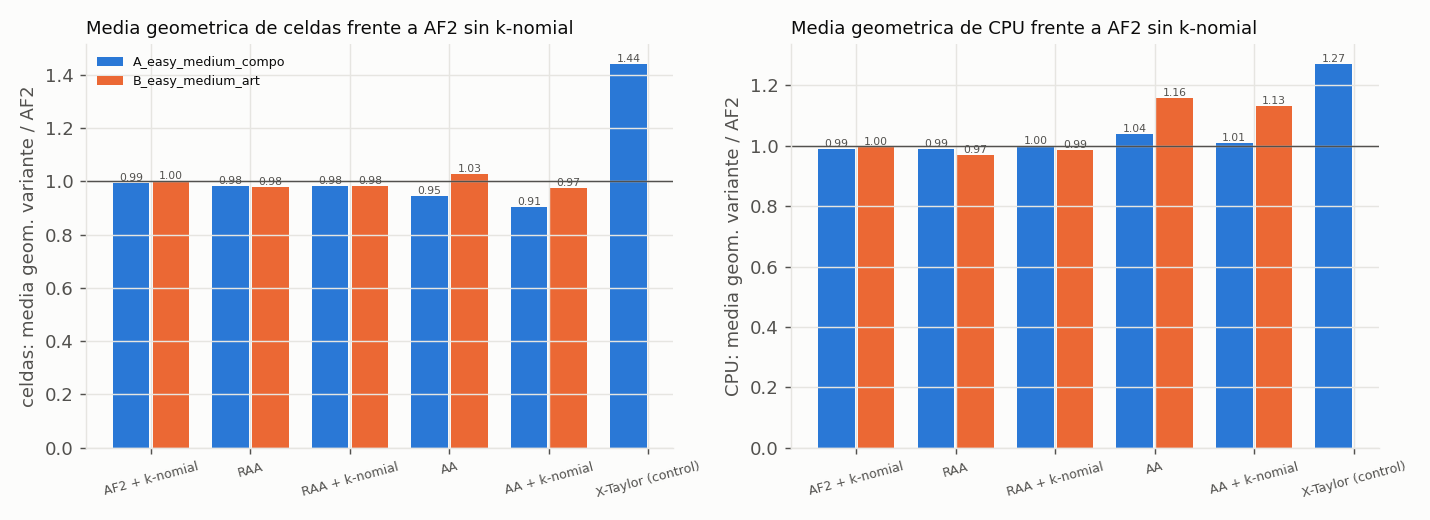
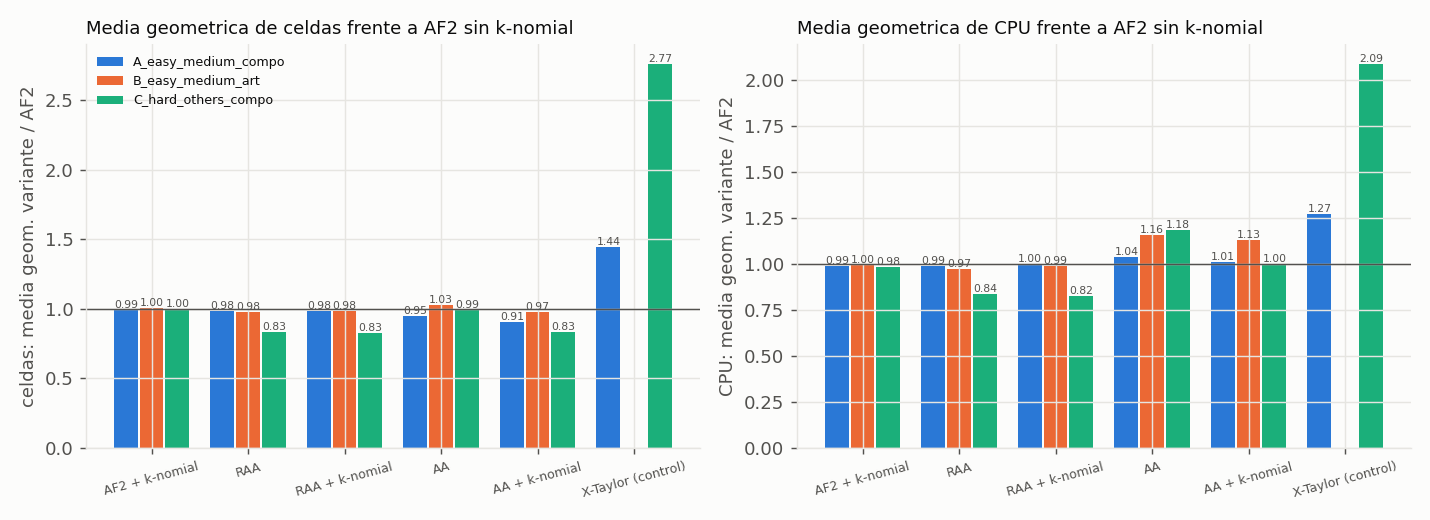
Fase 3 nivel 2, etapa C (hard+others, compo): resultados, analisis, consolidacion y conclusiones

diff --git a/raak/results/fase3-20260921/C_hard_others_compo/analisis/nivel2_tabla.md b/raak/results/fase3-20260921/C_hard_others_compo/analisis/nivel2_tabla.md
@@ -1,0 +1,60 @@
+# Fase 3, nivel 2 — barrido del solver
+
+Fuente: `runs.csv`: 105 corridas, 15 instancias, limite 1800 s de CPU.
+
+## Relajacion `compo`
+
+### Estados
+
+| variante | NO_FEASIBLE_FOUND | SUCCESS | TIME_OUT | UNBOUNDED_OBJ | CPU total (h) |
+|---|---|---|---|---|---|
+| compo_aa_k0 | 1 | 8 | 4 | 2 | 2.33 |
+| compo_aa_k3 | 1 | 11 | 1 | 2 | 1.06 |
+| compo_af2_k0 | 1 | 11 | 1 | 2 | 0.98 |
+| compo_af2_k3 | 1 | 11 | 1 | 2 | 0.98 |
+| compo_raa_k0 | 1 | 11 | 1 | 2 | 0.97 |
+| compo_raa_k3 | 1 | 11 | 1 | 2 | 0.97 |
+| xn | 1 | 7 | 5 | 2 | 2.99 |
+
+### Frente a la base `compo_af2_k0` (instancias resueltas por ambas; gana = menos de 0.95x, pierde = mas de 1.05x)
+
+| variante | n | celdas: gana/empata/pierde | celdas media geom. | CPU: gana/empata/pierde | CPU media geom. | resuelve solo esta | resuelve solo la base |
+|---|---|---|---|---|---|---|---|
+| compo_aa_k0 | 8 | 2/2/4 | 0.992 | 1/3/4 | 1.183 | 0 | 3 |
+| compo_aa_k3 | 11 | 3/8/0 | 0.830 | 1/2/8 | 1.001 | 0 | 0 |
+| compo_af2_k3 | 11 | 0/11/0 | 0.997 | 1/10/0 | 0.984 | 0 | 0 |
+| compo_raa_k0 | 11 | 1/10/0 | 0.830 | 1/10/0 | 0.835 | 0 | 0 |
+| compo_raa_k3 | 11 | 1/10/0 | 0.828 | 2/9/0 | 0.824 | 0 | 0 |
+| xn | 7 | 0/0/7 | 2.766 | 2/0/5 | 2.089 | 0 | 4 |
+
+### Separacion de efectos
+
+| efecto | comparacion | n | celdas gana/empata/pierde | celdas media geom. | CPU media geom. |
+|---|---|---|---|---|---|
+| aritmetica | compo_raa_k0 / compo_af2_k0 | 11 | 1/10/0 | 0.830 | 0.835 |
+| aritmetica | compo_aa_k0 / compo_af2_k0 | 8 | 2/2/4 | 0.992 | 1.183 |
+| k-nomial | compo_af2_k3 / compo_af2_k0 | 11 | 0/11/0 | 0.997 | 0.984 |
+| k-nomial | compo_raa_k3 / compo_raa_k0 | 11 | 0/11/0 | 0.997 | 0.986 |
+| k-nomial | compo_aa_k3 / compo_aa_k0 | 8 | 4/3/1 | 0.779 | 0.807 |
+| total | compo_raa_k3 / compo_af2_k0 | 11 | 1/10/0 | 0.828 | 0.824 |
+| total | compo_aa_k3 / compo_af2_k0 | 11 | 3/8/0 | 0.830 | 1.001 |
+
+## Tabla consolidada por instancia (celdas / CPU s; `—` = no resuelta)
+
+| instancia | compo_aa_k0 | compo_aa_k3 | compo_af2_k0 | compo_af2_k3 | compo_raa_k0 | compo_raa_k3 | xn |
+|---|---|---|---|---|---|---|---|
+| hard/chem | TIME_OUT | 111720 / 485.7 | 111578 / 417.2 | 111578 / 424.8 | 111578 / 422.9 | 111578 / 419.0 | TIME_OUT |
+| hard/chem-1 | TIME_OUT | 111720 / 478.0 | 111578 / 418.7 | 111578 / 416.9 | 111578 / 423.1 | 111578 / 421.5 | TIME_OUT |
+| hard/chembis | TIME_OUT | 57974 / 223.8 | 57582 / 202.4 | 57582 / 202.2 | 57582 / 202.0 | 57582 / 204.3 | TIME_OUT |
+| hard/ex6_1_3 | 9544 / 56.5 | 5982 / 36.7 | 5736 / 32.6 | 5736 / 33.1 | 5736 / 32.9 | 5736 / 32.9 | 23158 / 103.5 |
+| hard/ex6_2_10 | 256732 / 781.5 | 139174 / 447.0 | 143026 / 280.9 | 139092 / 279.5 | 143026 / 281.0 | 139092 / 280.1 | 890118 / 1432.0 |
+| hard/ex8_5_1bis | 1452 / 4.9 | 1000 / 3.4 | 1006 / 3.1 | 1006 / 3.0 | 1006 / 3.0 | 1006 / 2.9 | 3564 / 7.7 |
+| hard/sambal | 49308 / 263.1 | 49308 / 260.7 | 54218 / 268.6 | 54218 / 269.2 | 54218 / 270.3 | 54218 / 274.2 | TIME_OUT |
+| others/dualc1 | 1820 / 56.5 | 980 / 34.2 | 1040 / 23.8 | 1040 / 23.9 | 1040 / 24.2 | 1040 / 23.8 | 1816 / 21.6 |
+| others/ex14_1_6 | 72 / 0.2 | 72 / 0.2 | 70 / 0.2 | 70 / 0.2 | 70 / 0.2 | 70 / 0.2 | 74 / 0.1 |
+| others/ex8_4_5-1 | 2316 / 29.4 | 2486 / 31.9 | 2396 / 28.2 | 2396 / 27.7 | 2396 / 27.6 | 2396 / 28.2 | 13036 / 116.7 |
+| others/ex8_4_5bis | 7088 / 9.4 | 7088 / 9.9 | 51412 / 45.7 | 51412 / 45.2 | 6602 / 6.3 | 6602 / 6.1 | 71190 / 66.0 |
+| others/polygon25 | TIME_OUT | TIME_OUT | TIME_OUT | TIME_OUT | TIME_OUT | TIME_OUT | TIME_OUT |
+| others/ship | NO_FEASIBLE_FOUND | NO_FEASIBLE_FOUND | NO_FEASIBLE_FOUND | NO_FEASIBLE_FOUND | NO_FEASIBLE_FOUND | NO_FEASIBLE_FOUND | NO_FEASIBLE_FOUND |
+| others/test_infinity3 | UNBOUNDED_OBJ | UNBOUNDED_OBJ | UNBOUNDED_OBJ | UNBOUNDED_OBJ | UNBOUNDED_OBJ | UNBOUNDED_OBJ | UNBOUNDED_OBJ |
+| others/test_infinity4 | UNBOUNDED_OBJ | UNBOUNDED_OBJ | UNBOUNDED_OBJ | UNBOUNDED_OBJ | UNBOUNDED_OBJ | UNBOUNDED_OBJ | UNBOUNDED_OBJ |

diff --git a/raak/docs/FASE3_EXPERIMENTOS.md b/raak/docs/FASE3_EXPERIMENTOS.md
@@ -217,10 +217,45 @@ Lecturas:
 Gráficos y tablas: `analisis/nivel2_perfil_art.png`, `analisis/nivel2_dispersion_art.png`,
 `analisis/nivel2_tabla.md`.
 
-### Etapas C y D — `hard` + `others`
+### Etapa C — `hard` + `others`, relajación `compo` (15 instancias × 7 configuraciones, `-t 1800`)
 
-En curso en WSL al cierre de esta redacción (15 instancias × 13 configuraciones, casi todas al
-límite de 1800 s: 8–9 h de pared). Cuando terminen, el análisis se genera con los mismos comandos:
+`results/fase3-20260921/C_hard_others_compo/`. 15 instancias: 11 se resuelven con AF2/RAA,
+`polygon25` agota el tiempo en todas las configuraciones, `ship` es `NO_FEASIBLE_FOUND` y las dos
+`test_infinity*` no acotadas.
+
+| variante | resueltas | celdas gana / empata / pierde | celdas media geom. | CPU media geom. | CPU total (h) |
+|---|---|---|---|---|---|
+| AF2 (base) | 11 | — | 1 | 1 | 0.98 |
+| AF2 + k-nomial | 11 | 0 / 11 / 0 | 0.997 | 0.984 | 0.98 |
+| RAA | 11 | 1 / 10 / 0 | **0.830** | **0.835** | 0.97 |
+| RAA + k-nomial | 11 | 1 / 10 / 0 | 0.828 | 0.824 | 0.97 |
+| AA | **8** | 2 / 2 / 4 | 0.992 | 1.183 | 2.33 |
+| AA + k-nomial | 11 | 3 / 8 / 0 | 0.830 | 1.001 | 1.06 |
+| X-Taylor (control) | 7 | 0 / 0 / 7 | 2.766 | 2.089 | 2.99 |
+
+Lecturas (con la cautela de que son 11 instancias):
+
+1. **RAA vuelve a ganar sin perder**: la media 0.83 la explica una sola instancia,
+   `others/ex8_4_5bis`, que pasa de 51 412 celdas y 46 s (AF2) a 6 602 celdas y 6 s (RAA): otra vez
+   los cuadrados de Chebyshev (AA, que ya los tiene, hace 7 088). En las otras 10 RAA es idéntica a
+   AF2 celda a celda.
+2. **La AA tradicional deja de resolver tres instancias que AF2 sí resuelve** (`chem`, `chem-1`,
+   `chembis`: agota los 1800 s con 4 veces más celdas que AF2 en 420 s) y necesita 2.3 h de CPU en
+   total frente a 1 h. **Con el k-nomial las tres vuelven a resolverse** con las mismas celdas que
+   AF2 (111 720 frente a 111 578) y tiempos similares: aquí el k-nomial no es una mejora marginal
+   sino la diferencia entre resolver o no. Dentro de AA el efecto es celdas 0.78 y CPU 0.81 (4 gana,
+   1 pierde en las 8 comparables). AA + k-nomial iguala a RAA en celdas (0.830) pero no en CPU (1.00
+   frente a 0.83).
+3. **El k-nomial sobre AF2 y RAA sigue sin actuar** (0 / 11 / 0, medias 0.997): ninguna de estas
+   instancias tiene productos con dos símbolos compartidos.
+4. El control X-Taylor solo resuelve 7 y es 2.8× peor en celdas: en `hard` la relajación afín es
+   decisiva, no un refinamiento.
+
+### Etapa D — `hard` + `others`, relajación `art`
+
+Detenida a petición del usuario tras cerrar la etapa C (12 de 90 corridas hechas; la cadena es
+reanudable: al relanzar `~/ibex-local/results/fase3-20260921/chain.sh` salta lo ya hecho). Cuando
+termine, el análisis se genera con los mismos comandos:
 
 ```bash
 bash ~/ibex-local/tmp/an_stage.sh C_hard_others_compo      # analisis + copia al repo (idem D_hard_others_art)
@@ -230,7 +265,11 @@ cd ~/ibex-local/analysis && python3 consolidate.py ~/ibex-local/results/fase3-20
 (`an_stage.sh` equivale a `python3 raak/analysis/analyze_sweep.py <etapa>/runs.csv <etapa>/analisis --tlim 1800`
 seguido de copiar `runs.csv`, `meta.txt` y `analisis/` a `raak/results/fase3-20260921/<etapa>/`.)
 
-## Conclusiones (nivel 1 + etapas A y B del nivel 2)
+## Conclusiones (nivel 1 + etapas A, B y C del nivel 2)
+
+Añadido tras la etapa C: en `hard`, la AA tradicional sola pierde alcance (3 instancias sin resolver
+de 11) y el k-nomial se lo devuelve por completo; RAA gana otra instancia grande (`ex8_4_5bis`, 8×
+menos celdas) sin perder ninguna. Las conclusiones de abajo se mantienen y se refuerzan.
 
 Tabla consolidada: `results/fase3-20260921/RESUMEN.md`; gráfico: `resumen_medias_geom.png`.
 

diff --git a/raak/results/fase3-20260921/RESUMEN.md b/raak/results/fase3-20260921/RESUMEN.md
@@ -1,6 +1,6 @@
 # Fase 4 — tabla consolidada del nivel 2
 
-Etapas: A_easy_medium_compo, B_easy_medium_art. Base de cada comparacion: AF2 sin k-nomial de la misma etapa; 
+Etapas: A_easy_medium_compo, B_easy_medium_art, C_hard_others_compo. Base de cada comparacion: AF2 sin k-nomial de la misma etapa; 
 *gana* = cociente < 0.95, *pierde* = > 1.05; medias geometricas sobre las instancias resueltas por ambas.
 
 ## A_easy_medium_compo
@@ -49,4 +49,28 @@ Etapas: A_easy_medium_compo, B_easy_medium_art. Base de cada comparacion: AF2 si
 | k-nomial | AA + k-nomial / AA | 29 / 86 / 7 | 0.948 | 0.977 |
 | total | RAA + k-nomial / AF2 | 4 / 113 / 5 | 0.984 | 0.986 |
 | total | AA + k-nomial / AF2 | 19 / 79 / 24 | 0.975 | 1.132 |
+
+## C_hard_others_compo
+
+15 instancias.
+
+| variante | resueltas | celdas gana / empata / pierde | celdas media geom. | CPU gana / empata / pierde | CPU media geom. |
+|---|---|---|---|---|---|
+| AF2 (base) | 11 | — | 1 | — | 1 |
+| AF2 + k-nomial | 11 | 0 / 11 / 0 | 0.997 | 1 / 10 / 0 | 0.984 |
+| RAA | 11 | 1 / 10 / 0 | 0.830 | 1 / 10 / 0 | 0.835 |
+| RAA + k-nomial | 11 | 1 / 10 / 0 | 0.828 | 2 / 9 / 0 | 0.824 |
+| AA | 8 | 2 / 2 / 4 | 0.992 | 1 / 3 / 4 | 1.183 |
+| AA + k-nomial | 11 | 3 / 8 / 0 | 0.830 | 1 / 2 / 8 | 1.001 |
+| X-Taylor (control) | 7 | 0 / 0 / 7 | 2.766 | 2 / 0 / 5 | 2.089 |
+
+| efecto | comparacion | celdas gana / empata / pierde | celdas media geom. | CPU media geom. |
+|---|---|---|---|---|
+| aritmetica | RAA / AF2 | 1 / 10 / 0 | 0.830 | 0.835 |
+| aritmetica | AA / AF2 | 2 / 2 / 4 | 0.992 | 1.183 |
+| k-nomial | AF2 + k-nomial / AF2 | 0 / 11 / 0 | 0.997 | 0.984 |
+| k-nomial | RAA + k-nomial / RAA | 0 / 11 / 0 | 0.997 | 0.986 |
+| k-nomial | AA + k-nomial / AA | 4 / 3 / 1 | 0.779 | 0.807 |
+| total | RAA + k-nomial / AF2 | 1 / 10 / 0 | 0.828 | 0.824 |
+| total | AA + k-nomial / AF2 | 3 / 8 / 0 | 0.830 | 1.001 |
 

diff --git a/raak/results/fase3-20260921/C_hard_others_compo/analisis/README.md b/raak/results/fase3-20260921/C_hard_others_compo/analisis/README.md
@@ -1,0 +1,12 @@
+# Resultados del nivel 2 (barrido del solver)
+
+Datos: `runs.csv` (105 corridas, 15 instancias, `-t 1800`). Generado por `raak/analysis/analyze_sweep.py`.
+
+| archivo | que muestra |
+|---|---|
+| `nivel2_tabla.md` | Todas las tablas: estados, victorias/derrotas/empates, medias geometricas, separacion de efectos y tabla consolidada por instancia. |
+| `nivel2_perfil_compo.png` | Perfiles de desempeno (Dolan-More) con `compo`: para cada tau, fraccion de instancias que la variante resuelve con CPU (izq.) o celdas (der.) a lo sumo tau veces la mejor variante. Mas arriba y mas a la izquierda es mejor. Trazo discontinuo = con k-nomial. |
+| `nivel2_dispersion_compo.png` | Dispersion log-log por instancia con `compo`: celdas (arriba) y CPU (abajo) de cada variante frente a AF2 sin k-nomial. Un punto bajo la diagonal significa que la variante necesito menos. |
+
+Lectura: *celdas* = nodos del B&B (`number of cells`), *CPU* = `cpu time used`. Las medias geometricas se calculan sobre
+las instancias resueltas por las dos variantes comparadas; *gana* = cociente < 0.95, *pierde* = cociente > 1.05.

diff --git a/raak/docs/PLAN_COMPARACION.md b/raak/docs/PLAN_COMPARACION.md
@@ -87,3 +87,6 @@ tabla consolidada (`results/fase3-20260921/RESUMEN.md`, `resumen_medias_geom.png
   evaluaciones sin violaciones; regresión 21/21 idéntica) y documentada; nivel 1 de la Fase 3
   ejecutado (380 instancias, 0 violaciones) y analizado; nivel 2 lanzado en WSL (cadena A→D,
   `-t 1800`, 12 procesos) con análisis probado sobre el parcial de la etapa A.
+- 2026-09-22: etapas A, B y C del nivel 2 terminadas, analizadas y commiteadas; Fase 4
+  (tabla consolidada, gráficos, README de resultados) hecha para ellas. Etapa D detenida a
+  petición del usuario (reanudable) a la espera de su confirmación.
